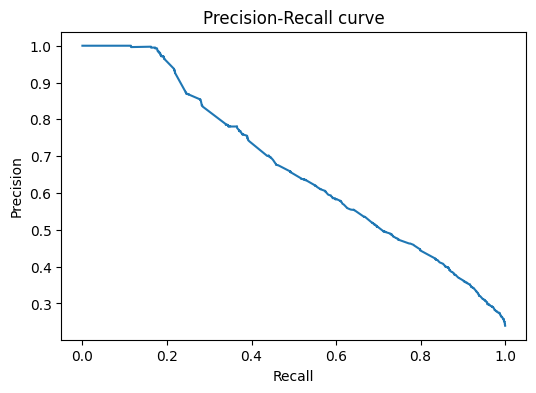
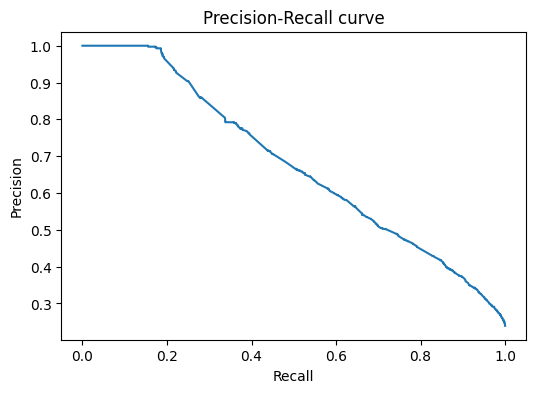
HW-1-add-one-more-exp

diff --git a/runner.py b/runner.py
@@ -10,7 +10,7 @@ if __name__ == "__main__":
     mlflow.set_tracking_uri(MLFLOW_TRACKING_URI)
     mlflow.set_experiment(EXPERIMENT_NAME)
 
-    with mlflow.start_run(run_name="C_rf_max_depth=10"):
+    with mlflow.start_run(run_name="A_logreg_train_size=9000"):
         process_data()
         train()
         evaluate()

diff --git a/results.md b/results.md
@@ -6,13 +6,13 @@
 
 Параметр: размер тренировочного датасета
 
-Сетка значений: 1000 - 3000 - 6000 - 12000
+Сетка значений: 1000 - 3000 - 6000 - 9000 - 12000
 
 ![Разрез A: метрики vs train_size](./report_images/razrez_A.png)
 
-Выводы: видно, что с ростом размера датасета есть рост в accuracy,precision, roc-auc, pr-auc, в recall , f1 изменение метрики очень маленькое. При этом  для большинства метрик максимум достигается при размере 6000, а не 12000, поэтому можно сделать вывод, что увеличение размера не гарантирует увеличение метрик
+Выводы: видно, что с ростом размера датасета есть рост в accuracy,precision, roc-auc, pr-auc, в recall , f1 изменение метрики очень маленькое. При этом  для большинства метрик максимум достигается при размере 9000, а не 12000, поэтому можно сделать вывод, что увеличение размера не гарантирует увеличение метрик
 
-Лучший запуск по ROC-AUC: http://158.160.2.37:5000/#/experiments/18/runs/c5d1a68762764c75bf0a97f619833054
+Лучший запуск по ROC-AUC: http://158.160.2.37:5000/#/experiments/18/runs/1de72464026d4d199074529e8635c94f
 
 ## Разрез B: разные модели
 
